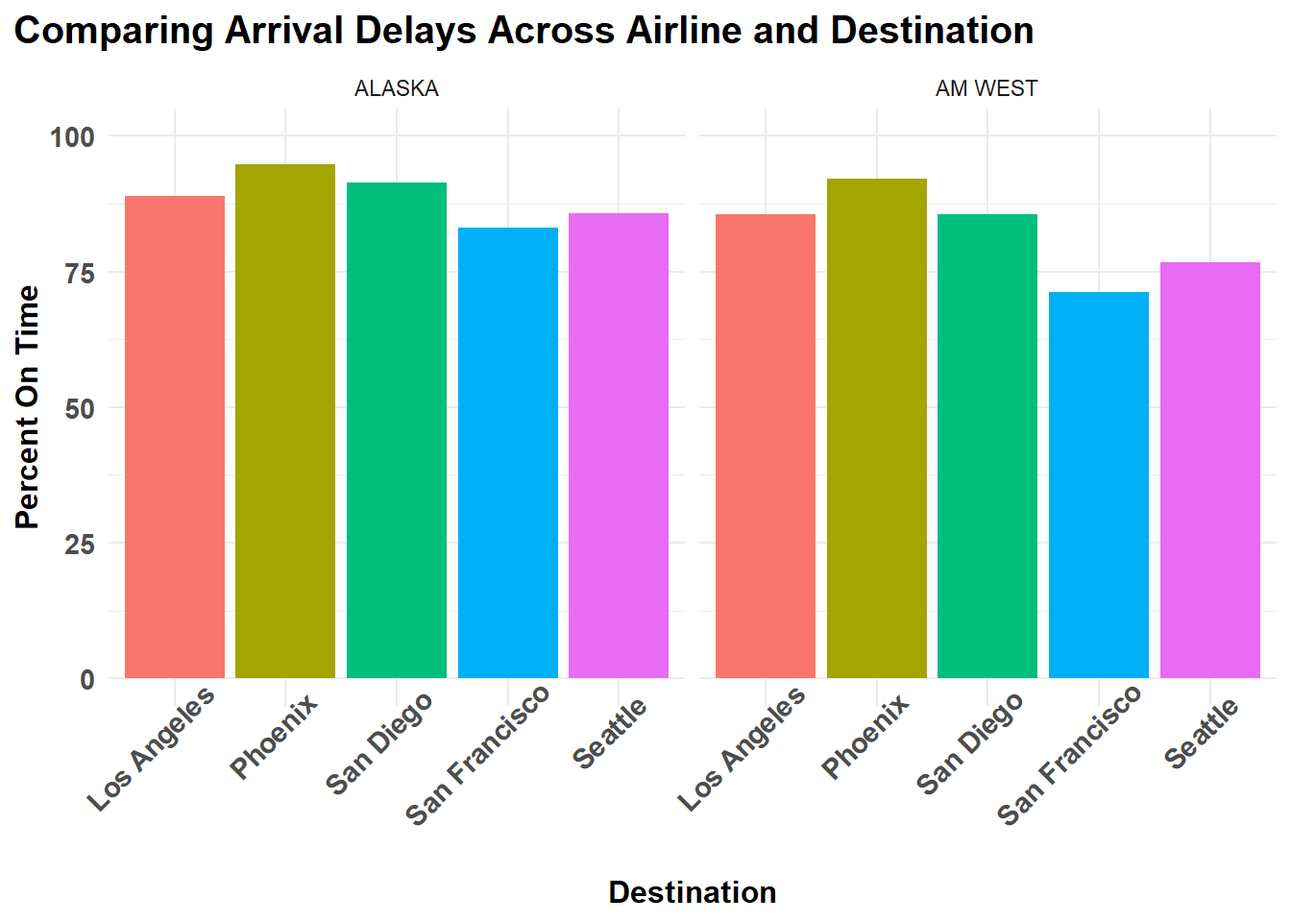
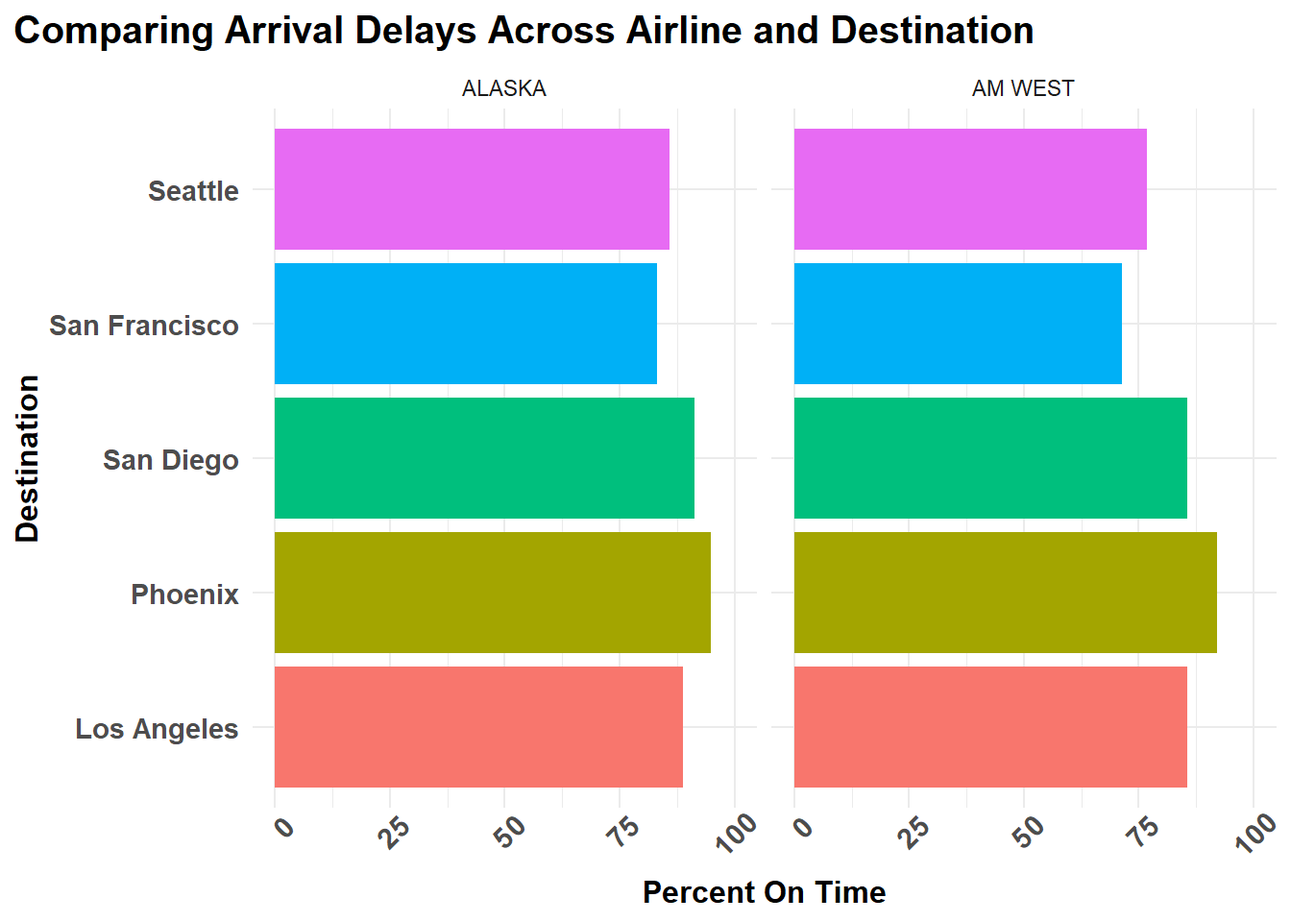
coord_flip()

diff --git a/Assignment5A-KCH-Codebase.html b/Assignment5A-KCH-Codebase.html
@@ -311,11 +311,10 @@ pre > code.sourceCode > span > a:first-child::before { text-decoration: underlin
 <div class="cell">
 <div class="code-copy-outer-scaffold"><div class="sourceCode cell-code" id="cb2"><pre class="sourceCode r code-with-copy"><code class="sourceCode r"><span id="cb2-1"><a href="#cb2-1" aria-hidden="true" tabindex="-1"></a>df_long <span class="ot">&lt;-</span> clean_data <span class="sc">|&gt;</span></span>
 <span id="cb2-2"><a href="#cb2-2" aria-hidden="true" tabindex="-1"></a>  <span class="fu">pivot_longer</span>(</span>
-<span id="cb2-3"><a href="#cb2-3" aria-hidden="true" tabindex="-1"></a>    <span class="at">cols =</span> <span class="fu">c</span>(<span class="dv">3</span>,<span class="dv">4</span>,<span class="dv">5</span>,<span class="dv">6</span>,<span class="dv">7</span>),</span>
+<span id="cb2-3"><a href="#cb2-3" aria-hidden="true" tabindex="-1"></a>    <span class="at">cols =</span> <span class="st">"Los Angeles"</span><span class="sc">:</span> <span class="st">"Seattle"</span>,</span>
 <span id="cb2-4"><a href="#cb2-4" aria-hidden="true" tabindex="-1"></a>    <span class="at">names_to =</span> <span class="st">"destination"</span>,</span>
 <span id="cb2-5"><a href="#cb2-5" aria-hidden="true" tabindex="-1"></a>    <span class="at">values_to =</span> <span class="st">"frequency"</span></span>
-<span id="cb2-6"><a href="#cb2-6" aria-hidden="true" tabindex="-1"></a>  )</span>
-<span id="cb2-7"><a href="#cb2-7" aria-hidden="true" tabindex="-1"></a><span class="co">#knitr::kable(df_long, caption = "Cleaned, Long Data Frame")</span></span></code></pre></div><button title="Copy to Clipboard" class="code-copy-button"><i class="bi"></i></button></div>
+<span id="cb2-6"><a href="#cb2-6" aria-hidden="true" tabindex="-1"></a>  )</span></code></pre></div><button title="Copy to Clipboard" class="code-copy-button"><i class="bi"></i></button></div>
 </div>
 </section>
 <section id="summarizing-data" class="level3">
@@ -325,52 +324,26 @@ pre > code.sourceCode > span > a:first-child::before { text-decoration: underlin
 <div class="code-copy-outer-scaffold"><div class="sourceCode cell-code" id="cb3"><pre class="sourceCode r code-with-copy"><code class="sourceCode r"><span id="cb3-1"><a href="#cb3-1" aria-hidden="true" tabindex="-1"></a>df_long <span class="ot">&lt;-</span> df_long <span class="sc">|&gt;</span></span>
 <span id="cb3-2"><a href="#cb3-2" aria-hidden="true" tabindex="-1"></a>  <span class="fu">arrange</span>(destination)</span>
 <span id="cb3-3"><a href="#cb3-3" aria-hidden="true" tabindex="-1"></a></span>
-<span id="cb3-4"><a href="#cb3-4" aria-hidden="true" tabindex="-1"></a>df_long</span></code></pre></div><button title="Copy to Clipboard" class="code-copy-button"><i class="bi"></i></button></div>
-<div class="cell-output cell-output-stdout">
-<pre><code># A tibble: 20 × 4
-   airline status  destination   frequency
-   &lt;chr&gt;   &lt;chr&gt;   &lt;chr&gt;             &lt;dbl&gt;
- 1 ALASKA  on time Los Angeles         497
- 2 ALASKA  delayed Los Angeles          62
- 3 AM WEST on time Los Angeles         694
- 4 AM WEST delayed Los Angeles         117
- 5 ALASKA  on time Phoenix             221
- 6 ALASKA  delayed Phoenix              12
- 7 AM WEST on time Phoenix            4840
- 8 AM WEST delayed Phoenix             415
- 9 ALASKA  on time San Diego           212
-10 ALASKA  delayed San Diego            20
-11 AM WEST on time San Diego           383
-12 AM WEST delayed San Diego            65
-13 ALASKA  on time San Francisco       503
-14 ALASKA  delayed San Francisco       102
-15 AM WEST on time San Francisco       320
-16 AM WEST delayed San Francisco       129
-17 ALASKA  on time Seattle            1841
-18 ALASKA  delayed Seattle             305
-19 AM WEST on time Seattle             201
-20 AM WEST delayed Seattle              61</code></pre>
-</div>
-<div class="code-copy-outer-scaffold"><div class="sourceCode cell-code" id="cb5"><pre class="sourceCode r code-with-copy"><code class="sourceCode r"><span id="cb5-1"><a href="#cb5-1" aria-hidden="true" tabindex="-1"></a>df_wide <span class="ot">&lt;-</span> df_long <span class="sc">|&gt;</span></span>
-<span id="cb5-2"><a href="#cb5-2" aria-hidden="true" tabindex="-1"></a>  <span class="fu">pivot_wider</span>(</span>
-<span id="cb5-3"><a href="#cb5-3" aria-hidden="true" tabindex="-1"></a>    <span class="at">names_from =</span> status,</span>
-<span id="cb5-4"><a href="#cb5-4" aria-hidden="true" tabindex="-1"></a>    <span class="at">values_from =</span> frequency</span>
-<span id="cb5-5"><a href="#cb5-5" aria-hidden="true" tabindex="-1"></a>  ) <span class="sc">|&gt;</span></span>
-<span id="cb5-6"><a href="#cb5-6" aria-hidden="true" tabindex="-1"></a>  janitor<span class="sc">::</span><span class="fu">clean_names</span>()</span>
-<span id="cb5-7"><a href="#cb5-7" aria-hidden="true" tabindex="-1"></a>  </span>
-<span id="cb5-8"><a href="#cb5-8" aria-hidden="true" tabindex="-1"></a>df_summary <span class="ot">&lt;-</span> df_wide <span class="sc">|&gt;</span></span>
-<span id="cb5-9"><a href="#cb5-9" aria-hidden="true" tabindex="-1"></a>  <span class="fu">mutate</span>(<span class="at">on_time_pct =</span> <span class="fu">round</span>(<span class="dv">100</span><span class="sc">*</span>on_time<span class="sc">/</span>(on_time<span class="sc">+</span>delayed),<span class="dv">1</span>)) <span class="sc">|&gt;</span></span>
-<span id="cb5-10"><a href="#cb5-10" aria-hidden="true" tabindex="-1"></a>  <span class="fu">select</span>(airline, destination, on_time_pct)</span>
-<span id="cb5-11"><a href="#cb5-11" aria-hidden="true" tabindex="-1"></a></span>
-<span id="cb5-12"><a href="#cb5-12" aria-hidden="true" tabindex="-1"></a>df_wider <span class="ot">&lt;-</span> df_summary <span class="sc">|&gt;</span></span>
-<span id="cb5-13"><a href="#cb5-13" aria-hidden="true" tabindex="-1"></a>  <span class="fu">pivot_wider</span>(<span class="at">names_from =</span> airline,</span>
-<span id="cb5-14"><a href="#cb5-14" aria-hidden="true" tabindex="-1"></a>              <span class="at">values_from =</span> on_time_pct</span>
-<span id="cb5-15"><a href="#cb5-15" aria-hidden="true" tabindex="-1"></a>  ) <span class="sc">|&gt;</span></span>
-<span id="cb5-16"><a href="#cb5-16" aria-hidden="true" tabindex="-1"></a>  janitor<span class="sc">::</span><span class="fu">clean_names</span>() <span class="sc">|&gt;</span></span>
-<span id="cb5-17"><a href="#cb5-17" aria-hidden="true" tabindex="-1"></a>  <span class="fu">arrange</span>(<span class="fu">desc</span>(alaska))</span>
-<span id="cb5-18"><a href="#cb5-18" aria-hidden="true" tabindex="-1"></a></span>
-<span id="cb5-19"><a href="#cb5-19" aria-hidden="true" tabindex="-1"></a></span>
-<span id="cb5-20"><a href="#cb5-20" aria-hidden="true" tabindex="-1"></a>knitr<span class="sc">::</span><span class="fu">kable</span>(df_wider, <span class="at">caption =</span> <span class="st">"Summary of Data"</span>)</span></code></pre></div><button title="Copy to Clipboard" class="code-copy-button"><i class="bi"></i></button></div>
+<span id="cb3-4"><a href="#cb3-4" aria-hidden="true" tabindex="-1"></a>df_wide <span class="ot">&lt;-</span> df_long <span class="sc">|&gt;</span></span>
+<span id="cb3-5"><a href="#cb3-5" aria-hidden="true" tabindex="-1"></a>  <span class="fu">pivot_wider</span>(</span>
+<span id="cb3-6"><a href="#cb3-6" aria-hidden="true" tabindex="-1"></a>    <span class="at">names_from =</span> status,</span>
+<span id="cb3-7"><a href="#cb3-7" aria-hidden="true" tabindex="-1"></a>    <span class="at">values_from =</span> frequency</span>
+<span id="cb3-8"><a href="#cb3-8" aria-hidden="true" tabindex="-1"></a>  ) <span class="sc">|&gt;</span></span>
+<span id="cb3-9"><a href="#cb3-9" aria-hidden="true" tabindex="-1"></a>  janitor<span class="sc">::</span><span class="fu">clean_names</span>()</span>
+<span id="cb3-10"><a href="#cb3-10" aria-hidden="true" tabindex="-1"></a>  </span>
+<span id="cb3-11"><a href="#cb3-11" aria-hidden="true" tabindex="-1"></a>df_summary <span class="ot">&lt;-</span> df_wide <span class="sc">|&gt;</span></span>
+<span id="cb3-12"><a href="#cb3-12" aria-hidden="true" tabindex="-1"></a>  <span class="fu">mutate</span>(<span class="at">on_time_pct =</span> <span class="fu">round</span>(<span class="dv">100</span><span class="sc">*</span>on_time<span class="sc">/</span>(on_time<span class="sc">+</span>delayed),<span class="dv">1</span>)) <span class="sc">|&gt;</span></span>
+<span id="cb3-13"><a href="#cb3-13" aria-hidden="true" tabindex="-1"></a>  <span class="fu">select</span>(airline, destination, on_time_pct)</span>
+<span id="cb3-14"><a href="#cb3-14" aria-hidden="true" tabindex="-1"></a></span>
+<span id="cb3-15"><a href="#cb3-15" aria-hidden="true" tabindex="-1"></a>df_wider <span class="ot">&lt;-</span> df_summary <span class="sc">|&gt;</span></span>
+<span id="cb3-16"><a href="#cb3-16" aria-hidden="true" tabindex="-1"></a>  <span class="fu">pivot_wider</span>(<span class="at">names_from =</span> airline,</span>
+<span id="cb3-17"><a href="#cb3-17" aria-hidden="true" tabindex="-1"></a>              <span class="at">values_from =</span> on_time_pct</span>
+<span id="cb3-18"><a href="#cb3-18" aria-hidden="true" tabindex="-1"></a>  ) <span class="sc">|&gt;</span></span>
+<span id="cb3-19"><a href="#cb3-19" aria-hidden="true" tabindex="-1"></a>  janitor<span class="sc">::</span><span class="fu">clean_names</span>() <span class="sc">|&gt;</span></span>
+<span id="cb3-20"><a href="#cb3-20" aria-hidden="true" tabindex="-1"></a>  <span class="fu">arrange</span>(<span class="fu">desc</span>(alaska))</span>
+<span id="cb3-21"><a href="#cb3-21" aria-hidden="true" tabindex="-1"></a></span>
+<span id="cb3-22"><a href="#cb3-22" aria-hidden="true" tabindex="-1"></a></span>
+<span id="cb3-23"><a href="#cb3-23" aria-hidden="true" tabindex="-1"></a>knitr<span class="sc">::</span><span class="fu">kable</span>(df_wider, <span class="at">caption =</span> <span class="st">"Summary of Data"</span>)</span></code></pre></div><button title="Copy to Clipboard" class="code-copy-button"><i class="bi"></i></button></div>
 <div class="cell-output-display">
 <table class="caption-top table table-sm table-striped small">
 <caption>Summary of Data</caption>
@@ -416,26 +389,27 @@ pre > code.sourceCode > span > a:first-child::before { text-decoration: underlin
 <section id="visualizing-data" class="level2">
 <h2 class="anchored" data-anchor-id="visualizing-data">Visualizing Data</h2>
 <div class="cell">
-<div class="code-copy-outer-scaffold"><div class="sourceCode cell-code" id="cb6"><pre class="sourceCode r code-with-copy"><code class="sourceCode r"><span id="cb6-1"><a href="#cb6-1" aria-hidden="true" tabindex="-1"></a>df_summary <span class="sc">|&gt;</span></span>
-<span id="cb6-2"><a href="#cb6-2" aria-hidden="true" tabindex="-1"></a>  <span class="fu">ggplot</span>(<span class="fu">aes</span>(<span class="at">x=</span>destination, <span class="at">y=</span>on_time_pct, <span class="at">fill=</span>destination)) <span class="sc">+</span></span>
-<span id="cb6-3"><a href="#cb6-3" aria-hidden="true" tabindex="-1"></a>  <span class="fu">facet_wrap</span>(<span class="sc">~</span>airline) <span class="sc">+</span></span>
-<span id="cb6-4"><a href="#cb6-4" aria-hidden="true" tabindex="-1"></a>  <span class="fu">geom_col</span>(<span class="at">show.legend =</span> <span class="cn">FALSE</span>) <span class="sc">+</span></span>
-<span id="cb6-5"><a href="#cb6-5" aria-hidden="true" tabindex="-1"></a>  <span class="fu">scale_y_continuous</span>(<span class="at">limits =</span> <span class="fu">c</span>(<span class="dv">0</span>,<span class="dv">100</span>)) <span class="sc">+</span></span>
-<span id="cb6-6"><a href="#cb6-6" aria-hidden="true" tabindex="-1"></a>  <span class="fu">labs</span>(<span class="at">title =</span> <span class="st">"Comparing Arrival Delays Across Airline and Destination"</span>,</span>
-<span id="cb6-7"><a href="#cb6-7" aria-hidden="true" tabindex="-1"></a>       <span class="at">x=</span><span class="st">"Destination"</span>,</span>
-<span id="cb6-8"><a href="#cb6-8" aria-hidden="true" tabindex="-1"></a>       <span class="at">y=</span><span class="st">"Percent On Time"</span>) <span class="sc">+</span></span>
-<span id="cb6-9"><a href="#cb6-9" aria-hidden="true" tabindex="-1"></a>  <span class="fu">theme_minimal</span>() <span class="sc">+</span></span>
-<span id="cb6-10"><a href="#cb6-10" aria-hidden="true" tabindex="-1"></a>  <span class="fu">theme</span>(</span>
-<span id="cb6-11"><a href="#cb6-11" aria-hidden="true" tabindex="-1"></a>    <span class="at">plot.title.position =</span> <span class="st">"plot"</span>,</span>
-<span id="cb6-12"><a href="#cb6-12" aria-hidden="true" tabindex="-1"></a>    <span class="at">plot.caption.position =</span> <span class="st">"plot"</span>,</span>
-<span id="cb6-13"><a href="#cb6-13" aria-hidden="true" tabindex="-1"></a>    <span class="at">plot.title =</span> <span class="fu">element_text</span>(<span class="at">size =</span> <span class="dv">15</span>, <span class="at">face =</span> <span class="st">"bold"</span>),</span>
-<span id="cb6-14"><a href="#cb6-14" aria-hidden="true" tabindex="-1"></a>    <span class="at">plot.subtitle =</span> <span class="fu">element_text</span>(<span class="at">size =</span> <span class="dv">13</span>, <span class="at">face =</span> <span class="st">"italic"</span>),</span>
-<span id="cb6-15"><a href="#cb6-15" aria-hidden="true" tabindex="-1"></a>    <span class="at">axis.text.y =</span> <span class="fu">element_text</span>(<span class="at">size =</span> <span class="dv">11</span>, <span class="at">face =</span> <span class="st">"bold"</span>),</span>
-<span id="cb6-16"><a href="#cb6-16" aria-hidden="true" tabindex="-1"></a>    <span class="at">axis.text.x =</span> <span class="fu">element_text</span>(<span class="at">size =</span> <span class="dv">11</span>, <span class="at">face =</span> <span class="st">"bold"</span>, <span class="at">angle =</span> <span class="dv">45</span>, <span class="at">hjust =</span> <span class="fl">0.8</span>, <span class="at">vjust =</span> <span class="fl">1.1</span>),</span>
-<span id="cb6-17"><a href="#cb6-17" aria-hidden="true" tabindex="-1"></a>    <span class="at">axis.title.y =</span> <span class="fu">element_text</span>(<span class="at">size =</span> <span class="dv">12</span>, <span class="at">face =</span> <span class="st">"bold"</span>),</span>
-<span id="cb6-18"><a href="#cb6-18" aria-hidden="true" tabindex="-1"></a>    <span class="at">axis.title.x =</span> <span class="fu">element_text</span>(<span class="at">size =</span> <span class="dv">12</span>, <span class="at">face =</span> <span class="st">"bold"</span>),</span>
-<span id="cb6-19"><a href="#cb6-19" aria-hidden="true" tabindex="-1"></a>  ) <span class="sc">+</span></span>
-<span id="cb6-20"><a href="#cb6-20" aria-hidden="true" tabindex="-1"></a>  <span class="fu">scale_fill_discrete</span>()</span></code></pre></div><button title="Copy to Clipboard" class="code-copy-button"><i class="bi"></i></button></div>
+<div class="code-copy-outer-scaffold"><div class="sourceCode cell-code" id="cb4"><pre class="sourceCode r code-with-copy"><code class="sourceCode r"><span id="cb4-1"><a href="#cb4-1" aria-hidden="true" tabindex="-1"></a>df_summary <span class="sc">|&gt;</span></span>
+<span id="cb4-2"><a href="#cb4-2" aria-hidden="true" tabindex="-1"></a>  <span class="fu">ggplot</span>(<span class="fu">aes</span>(<span class="at">x=</span>destination, <span class="at">y=</span>on_time_pct, <span class="at">fill=</span>destination)) <span class="sc">+</span></span>
+<span id="cb4-3"><a href="#cb4-3" aria-hidden="true" tabindex="-1"></a>  <span class="fu">facet_wrap</span>(<span class="sc">~</span>airline) <span class="sc">+</span></span>
+<span id="cb4-4"><a href="#cb4-4" aria-hidden="true" tabindex="-1"></a>  <span class="fu">geom_col</span>(<span class="at">show.legend =</span> <span class="cn">FALSE</span>) <span class="sc">+</span></span>
+<span id="cb4-5"><a href="#cb4-5" aria-hidden="true" tabindex="-1"></a>  <span class="fu">coord_flip</span>() <span class="sc">+</span></span>
+<span id="cb4-6"><a href="#cb4-6" aria-hidden="true" tabindex="-1"></a>  <span class="fu">scale_y_continuous</span>(<span class="at">limits =</span> <span class="fu">c</span>(<span class="dv">0</span>,<span class="dv">100</span>)) <span class="sc">+</span></span>
+<span id="cb4-7"><a href="#cb4-7" aria-hidden="true" tabindex="-1"></a>  <span class="fu">labs</span>(<span class="at">title =</span> <span class="st">"Comparing Arrival Delays Across Airline and Destination"</span>,</span>
+<span id="cb4-8"><a href="#cb4-8" aria-hidden="true" tabindex="-1"></a>       <span class="at">x=</span><span class="st">"Destination"</span>,</span>
+<span id="cb4-9"><a href="#cb4-9" aria-hidden="true" tabindex="-1"></a>       <span class="at">y=</span><span class="st">"Percent On Time"</span>) <span class="sc">+</span></span>
+<span id="cb4-10"><a href="#cb4-10" aria-hidden="true" tabindex="-1"></a>  <span class="fu">theme_minimal</span>() <span class="sc">+</span></span>
+<span id="cb4-11"><a href="#cb4-11" aria-hidden="true" tabindex="-1"></a>  <span class="fu">theme</span>(</span>
+<span id="cb4-12"><a href="#cb4-12" aria-hidden="true" tabindex="-1"></a>    <span class="at">plot.title.position =</span> <span class="st">"plot"</span>,</span>
+<span id="cb4-13"><a href="#cb4-13" aria-hidden="true" tabindex="-1"></a>    <span class="at">plot.caption.position =</span> <span class="st">"plot"</span>,</span>
+<span id="cb4-14"><a href="#cb4-14" aria-hidden="true" tabindex="-1"></a>    <span class="at">plot.title =</span> <span class="fu">element_text</span>(<span class="at">size =</span> <span class="dv">15</span>, <span class="at">face =</span> <span class="st">"bold"</span>),</span>
+<span id="cb4-15"><a href="#cb4-15" aria-hidden="true" tabindex="-1"></a>    <span class="at">plot.subtitle =</span> <span class="fu">element_text</span>(<span class="at">size =</span> <span class="dv">13</span>, <span class="at">face =</span> <span class="st">"italic"</span>),</span>
+<span id="cb4-16"><a href="#cb4-16" aria-hidden="true" tabindex="-1"></a>    <span class="at">axis.text.y =</span> <span class="fu">element_text</span>(<span class="at">size =</span> <span class="dv">11</span>, <span class="at">face =</span> <span class="st">"bold"</span>),</span>
+<span id="cb4-17"><a href="#cb4-17" aria-hidden="true" tabindex="-1"></a>    <span class="at">axis.text.x =</span> <span class="fu">element_text</span>(<span class="at">size =</span> <span class="dv">11</span>, <span class="at">face =</span> <span class="st">"bold"</span>, <span class="at">angle =</span> <span class="dv">45</span>, <span class="at">hjust =</span> <span class="fl">0.8</span>, <span class="at">vjust =</span> <span class="fl">1.1</span>),</span>
+<span id="cb4-18"><a href="#cb4-18" aria-hidden="true" tabindex="-1"></a>    <span class="at">axis.title.y =</span> <span class="fu">element_text</span>(<span class="at">size =</span> <span class="dv">12</span>, <span class="at">face =</span> <span class="st">"bold"</span>),</span>
+<span id="cb4-19"><a href="#cb4-19" aria-hidden="true" tabindex="-1"></a>    <span class="at">axis.title.x =</span> <span class="fu">element_text</span>(<span class="at">size =</span> <span class="dv">12</span>, <span class="at">face =</span> <span class="st">"bold"</span>),</span>
+<span id="cb4-20"><a href="#cb4-20" aria-hidden="true" tabindex="-1"></a>  ) <span class="sc">+</span></span>
+<span id="cb4-21"><a href="#cb4-21" aria-hidden="true" tabindex="-1"></a>  <span class="fu">scale_fill_discrete</span>()</span></code></pre></div><button title="Copy to Clipboard" class="code-copy-button"><i class="bi"></i></button></div>
 <div class="cell-output-display">
 <div id="fig-1" class="quarto-float quarto-figure quarto-figure-center anchored">
 <figure class="quarto-float quarto-float-fig figure">
@@ -450,30 +424,30 @@ Figure&nbsp;1: Comparing Arrival Delays Across Airline and Destination
 </div>
 </div>
 <div class="cell">
-<div class="code-copy-outer-scaffold"><div class="sourceCode cell-code" id="cb7"><pre class="sourceCode r code-with-copy"><code class="sourceCode r"><span id="cb7-1"><a href="#cb7-1" aria-hidden="true" tabindex="-1"></a>df_viz <span class="ot">&lt;-</span> df_wider <span class="sc">|&gt;</span></span>
-<span id="cb7-2"><a href="#cb7-2" aria-hidden="true" tabindex="-1"></a>  <span class="fu">mutate</span>(<span class="at">diff =</span> alaska <span class="sc">-</span> am_west) <span class="sc">|&gt;</span></span>
-<span id="cb7-3"><a href="#cb7-3" aria-hidden="true" tabindex="-1"></a>  <span class="fu">select</span>(destination, diff)</span>
-<span id="cb7-4"><a href="#cb7-4" aria-hidden="true" tabindex="-1"></a></span>
-<span id="cb7-5"><a href="#cb7-5" aria-hidden="true" tabindex="-1"></a>df_viz <span class="sc">|&gt;</span></span>
-<span id="cb7-6"><a href="#cb7-6" aria-hidden="true" tabindex="-1"></a>  <span class="fu">ggplot</span>(<span class="fu">aes</span>(<span class="at">x=</span>destination, <span class="at">y=</span>diff, <span class="at">fill=</span>destination)) <span class="sc">+</span></span>
-<span id="cb7-7"><a href="#cb7-7" aria-hidden="true" tabindex="-1"></a>  <span class="fu">geom_col</span>(<span class="at">show.legend =</span> <span class="cn">FALSE</span>) <span class="sc">+</span></span>
-<span id="cb7-8"><a href="#cb7-8" aria-hidden="true" tabindex="-1"></a>  <span class="fu">labs</span>(<span class="at">title =</span> <span class="st">"Alaska Airlines Displays a Higher On-Time Percentage than Am West"</span>,</span>
-<span id="cb7-9"><a href="#cb7-9" aria-hidden="true" tabindex="-1"></a>       <span class="at">subtitle =</span> <span class="st">""</span>,</span>
-<span id="cb7-10"><a href="#cb7-10" aria-hidden="true" tabindex="-1"></a>       <span class="at">x =</span> <span class="st">"Destination"</span>,</span>
-<span id="cb7-11"><a href="#cb7-11" aria-hidden="true" tabindex="-1"></a>       <span class="at">y =</span> <span class="st">"Differential in Percent On-Time</span><span class="sc">\n</span><span class="st"> (Alaska minus Am West)"</span></span>
-<span id="cb7-12"><a href="#cb7-12" aria-hidden="true" tabindex="-1"></a>       ) <span class="sc">+</span></span>
-<span id="cb7-13"><a href="#cb7-13" aria-hidden="true" tabindex="-1"></a>  <span class="fu">theme_minimal</span>() <span class="sc">+</span></span>
-<span id="cb7-14"><a href="#cb7-14" aria-hidden="true" tabindex="-1"></a>  <span class="fu">theme</span>(</span>
-<span id="cb7-15"><a href="#cb7-15" aria-hidden="true" tabindex="-1"></a>    <span class="at">plot.title.position =</span> <span class="st">"plot"</span>,</span>
-<span id="cb7-16"><a href="#cb7-16" aria-hidden="true" tabindex="-1"></a>    <span class="at">plot.caption.position =</span> <span class="st">"plot"</span>,</span>
-<span id="cb7-17"><a href="#cb7-17" aria-hidden="true" tabindex="-1"></a>    <span class="at">plot.title =</span> <span class="fu">element_text</span>(<span class="at">size =</span> <span class="dv">15</span>, <span class="at">face =</span> <span class="st">"bold"</span>),</span>
-<span id="cb7-18"><a href="#cb7-18" aria-hidden="true" tabindex="-1"></a>    <span class="at">plot.subtitle =</span> <span class="fu">element_text</span>(<span class="at">size =</span> <span class="dv">13</span>, <span class="at">face =</span> <span class="st">"italic"</span>),</span>
-<span id="cb7-19"><a href="#cb7-19" aria-hidden="true" tabindex="-1"></a>    <span class="at">axis.text.y =</span> <span class="fu">element_text</span>(<span class="at">size =</span> <span class="dv">11</span>, <span class="at">face =</span> <span class="st">"bold"</span>),</span>
-<span id="cb7-20"><a href="#cb7-20" aria-hidden="true" tabindex="-1"></a>    <span class="at">axis.text.x =</span> <span class="fu">element_text</span>(<span class="at">size =</span> <span class="dv">11</span>, <span class="at">face =</span> <span class="st">"bold"</span>),</span>
-<span id="cb7-21"><a href="#cb7-21" aria-hidden="true" tabindex="-1"></a>    <span class="at">axis.title.y =</span> <span class="fu">element_text</span>(<span class="at">size =</span> <span class="dv">12</span>, <span class="at">face =</span> <span class="st">"bold"</span>),</span>
-<span id="cb7-22"><a href="#cb7-22" aria-hidden="true" tabindex="-1"></a>    <span class="at">axis.title.x =</span> <span class="fu">element_text</span>(<span class="at">size =</span> <span class="dv">12</span>, <span class="at">face =</span> <span class="st">"bold"</span>),</span>
-<span id="cb7-23"><a href="#cb7-23" aria-hidden="true" tabindex="-1"></a>  ) <span class="sc">+</span></span>
-<span id="cb7-24"><a href="#cb7-24" aria-hidden="true" tabindex="-1"></a>  <span class="fu">scale_fill_discrete</span>()</span></code></pre></div><button title="Copy to Clipboard" class="code-copy-button"><i class="bi"></i></button></div>
+<div class="code-copy-outer-scaffold"><div class="sourceCode cell-code" id="cb5"><pre class="sourceCode r code-with-copy"><code class="sourceCode r"><span id="cb5-1"><a href="#cb5-1" aria-hidden="true" tabindex="-1"></a>df_viz <span class="ot">&lt;-</span> df_wider <span class="sc">|&gt;</span></span>
+<span id="cb5-2"><a href="#cb5-2" aria-hidden="true" tabindex="-1"></a>  <span class="fu">mutate</span>(<span class="at">diff =</span> alaska <span class="sc">-</span> am_west) <span class="sc">|&gt;</span></span>
+<span id="cb5-3"><a href="#cb5-3" aria-hidden="true" tabindex="-1"></a>  <span class="fu">select</span>(destination, diff)</span>
+<span id="cb5-4"><a href="#cb5-4" aria-hidden="true" tabindex="-1"></a></span>
+<span id="cb5-5"><a href="#cb5-5" aria-hidden="true" tabindex="-1"></a>df_viz <span class="sc">|&gt;</span></span>
+<span id="cb5-6"><a href="#cb5-6" aria-hidden="true" tabindex="-1"></a>  <span class="fu">ggplot</span>(<span class="fu">aes</span>(<span class="at">x=</span>destination, <span class="at">y=</span>diff, <span class="at">fill=</span>destination)) <span class="sc">+</span></span>
+<span id="cb5-7"><a href="#cb5-7" aria-hidden="true" tabindex="-1"></a>  <span class="fu">geom_col</span>(<span class="at">show.legend =</span> <span class="cn">FALSE</span>) <span class="sc">+</span></span>
+<span id="cb5-8"><a href="#cb5-8" aria-hidden="true" tabindex="-1"></a>  <span class="fu">labs</span>(<span class="at">title =</span> <span class="st">"Alaska Airlines Displays a Higher On-Time Percentage than Am West"</span>,</span>
+<span id="cb5-9"><a href="#cb5-9" aria-hidden="true" tabindex="-1"></a>       <span class="at">subtitle =</span> <span class="st">""</span>,</span>
+<span id="cb5-10"><a href="#cb5-10" aria-hidden="true" tabindex="-1"></a>       <span class="at">x =</span> <span class="st">"Destination"</span>,</span>
+<span id="cb5-11"><a href="#cb5-11" aria-hidden="true" tabindex="-1"></a>       <span class="at">y =</span> <span class="st">"Differential in Percent On-Time</span><span class="sc">\n</span><span class="st"> (Alaska minus Am West)"</span></span>
+<span id="cb5-12"><a href="#cb5-12" aria-hidden="true" tabindex="-1"></a>       ) <span class="sc">+</span></span>
+<span id="cb5-13"><a href="#cb5-13" aria-hidden="true" tabindex="-1"></a>  <span class="fu">theme_minimal</span>() <span class="sc">+</span></span>
+<span id="cb5-14"><a href="#cb5-14" aria-hidden="true" tabindex="-1"></a>  <span class="fu">theme</span>(</span>
+<span id="cb5-15"><a href="#cb5-15" aria-hidden="true" tabindex="-1"></a>    <span class="at">plot.title.position =</span> <span class="st">"plot"</span>,</span>
+<span id="cb5-16"><a href="#cb5-16" aria-hidden="true" tabindex="-1"></a>    <span class="at">plot.caption.position =</span> <span class="st">"plot"</span>,</span>
+<span id="cb5-17"><a href="#cb5-17" aria-hidden="true" tabindex="-1"></a>    <span class="at">plot.title =</span> <span class="fu">element_text</span>(<span class="at">size =</span> <span class="dv">15</span>, <span class="at">face =</span> <span class="st">"bold"</span>),</span>
+<span id="cb5-18"><a href="#cb5-18" aria-hidden="true" tabindex="-1"></a>    <span class="at">plot.subtitle =</span> <span class="fu">element_text</span>(<span class="at">size =</span> <span class="dv">13</span>, <span class="at">face =</span> <span class="st">"italic"</span>),</span>
+<span id="cb5-19"><a href="#cb5-19" aria-hidden="true" tabindex="-1"></a>    <span class="at">axis.text.y =</span> <span class="fu">element_text</span>(<span class="at">size =</span> <span class="dv">11</span>, <span class="at">face =</span> <span class="st">"bold"</span>),</span>
+<span id="cb5-20"><a href="#cb5-20" aria-hidden="true" tabindex="-1"></a>    <span class="at">axis.text.x =</span> <span class="fu">element_text</span>(<span class="at">size =</span> <span class="dv">11</span>, <span class="at">face =</span> <span class="st">"bold"</span>),</span>
+<span id="cb5-21"><a href="#cb5-21" aria-hidden="true" tabindex="-1"></a>    <span class="at">axis.title.y =</span> <span class="fu">element_text</span>(<span class="at">size =</span> <span class="dv">12</span>, <span class="at">face =</span> <span class="st">"bold"</span>),</span>
+<span id="cb5-22"><a href="#cb5-22" aria-hidden="true" tabindex="-1"></a>    <span class="at">axis.title.x =</span> <span class="fu">element_text</span>(<span class="at">size =</span> <span class="dv">12</span>, <span class="at">face =</span> <span class="st">"bold"</span>),</span>
+<span id="cb5-23"><a href="#cb5-23" aria-hidden="true" tabindex="-1"></a>  ) <span class="sc">+</span></span>
+<span id="cb5-24"><a href="#cb5-24" aria-hidden="true" tabindex="-1"></a>  <span class="fu">scale_fill_discrete</span>()</span></code></pre></div><button title="Copy to Clipboard" class="code-copy-button"><i class="bi"></i></button></div>
 <div class="cell-output-display">
 <div id="fig-2" class="quarto-float quarto-figure quarto-figure-center anchored">
 <figure class="quarto-float quarto-float-fig figure">
@@ -489,16 +463,16 @@ Figure&nbsp;2: Alaska Airlines Displays a Higher On-Time Percentage than Am West
 </div>
 <p>To view the aggregate level summaries, the <code>df_wide</code> data frame is reused and summary statistics are summarized into the new frame, <code>df_sum</code>. From there, the percent of on time flights for each airline, aggregated across destinations, is computed.</p>
 <div class="cell">
-<div class="code-copy-outer-scaffold"><div class="sourceCode cell-code" id="cb8"><pre class="sourceCode r code-with-copy"><code class="sourceCode r"><span id="cb8-1"><a href="#cb8-1" aria-hidden="true" tabindex="-1"></a>df_sum <span class="ot">&lt;-</span> df_wide <span class="sc">|&gt;</span></span>
-<span id="cb8-2"><a href="#cb8-2" aria-hidden="true" tabindex="-1"></a>  <span class="fu">group_by</span>(airline) <span class="sc">|&gt;</span></span>
-<span id="cb8-3"><a href="#cb8-3" aria-hidden="true" tabindex="-1"></a>  <span class="fu">summarize</span>(</span>
-<span id="cb8-4"><a href="#cb8-4" aria-hidden="true" tabindex="-1"></a>    <span class="at">tot_on_time =</span> <span class="fu">sum</span>(on_time),</span>
-<span id="cb8-5"><a href="#cb8-5" aria-hidden="true" tabindex="-1"></a>    <span class="at">tot_delayed =</span> <span class="fu">sum</span>(delayed),</span>
-<span id="cb8-6"><a href="#cb8-6" aria-hidden="true" tabindex="-1"></a>    <span class="at">pct_on_time =</span> <span class="fu">round</span>(<span class="dv">100</span><span class="sc">*</span>tot_on_time <span class="sc">/</span> (tot_on_time<span class="sc">+</span>tot_delayed),<span class="dv">1</span>)</span>
-<span id="cb8-7"><a href="#cb8-7" aria-hidden="true" tabindex="-1"></a>  ) <span class="sc">|&gt;</span></span>
-<span id="cb8-8"><a href="#cb8-8" aria-hidden="true" tabindex="-1"></a>  <span class="fu">select</span>(airline, pct_on_time)</span>
-<span id="cb8-9"><a href="#cb8-9" aria-hidden="true" tabindex="-1"></a></span>
-<span id="cb8-10"><a href="#cb8-10" aria-hidden="true" tabindex="-1"></a>knitr<span class="sc">::</span><span class="fu">kable</span>(df_sum)</span></code></pre></div><button title="Copy to Clipboard" class="code-copy-button"><i class="bi"></i></button></div>
+<div class="code-copy-outer-scaffold"><div class="sourceCode cell-code" id="cb6"><pre class="sourceCode r code-with-copy"><code class="sourceCode r"><span id="cb6-1"><a href="#cb6-1" aria-hidden="true" tabindex="-1"></a>df_sum <span class="ot">&lt;-</span> df_wide <span class="sc">|&gt;</span></span>
+<span id="cb6-2"><a href="#cb6-2" aria-hidden="true" tabindex="-1"></a>  <span class="fu">group_by</span>(airline) <span class="sc">|&gt;</span></span>
+<span id="cb6-3"><a href="#cb6-3" aria-hidden="true" tabindex="-1"></a>  <span class="fu">summarize</span>(</span>
+<span id="cb6-4"><a href="#cb6-4" aria-hidden="true" tabindex="-1"></a>    <span class="at">tot_on_time =</span> <span class="fu">sum</span>(on_time),</span>
+<span id="cb6-5"><a href="#cb6-5" aria-hidden="true" tabindex="-1"></a>    <span class="at">tot_delayed =</span> <span class="fu">sum</span>(delayed),</span>
+<span id="cb6-6"><a href="#cb6-6" aria-hidden="true" tabindex="-1"></a>    <span class="at">pct_on_time =</span> <span class="fu">round</span>(<span class="dv">100</span><span class="sc">*</span>tot_on_time <span class="sc">/</span> (tot_on_time<span class="sc">+</span>tot_delayed),<span class="dv">1</span>)</span>
+<span id="cb6-7"><a href="#cb6-7" aria-hidden="true" tabindex="-1"></a>  ) <span class="sc">|&gt;</span></span>
+<span id="cb6-8"><a href="#cb6-8" aria-hidden="true" tabindex="-1"></a>  <span class="fu">select</span>(airline, pct_on_time)</span>
+<span id="cb6-9"><a href="#cb6-9" aria-hidden="true" tabindex="-1"></a></span>
+<span id="cb6-10"><a href="#cb6-10" aria-hidden="true" tabindex="-1"></a>knitr<span class="sc">::</span><span class="fu">kable</span>(df_sum)</span></code></pre></div><button title="Copy to Clipboard" class="code-copy-button"><i class="bi"></i></button></div>
 <div id="tbl-3" class="cell quarto-float quarto-figure quarto-figure-center anchored">
 <figure class="quarto-float quarto-float-tbl figure">
 <figcaption class="quarto-float-caption-top quarto-float-caption quarto-float-tbl" id="tbl-3-caption-0ceaefa1-69ba-4598-a22c-09a6ac19f8ca">
@@ -536,7 +510,7 @@ Table&nbsp;1: Aggregate Summary
 <p>In this assignment a .CSV file was loaded into a data frame using <code>read_csv()</code> and the data frame was tidied and reorganized in several iterations. The frame was transformed wider and longer from its initial shape. In the end, the data is described in two visualizations comparing on-time rates (percentage) for five destinations across two airlines and the difference in on-time rates for the two airlines.</p>
 <p>According to <a href="#fig-1" class="quarto-xref">Figure&nbsp;1</a>, each airline shows on-time rates exceeding 70%, with all of the Alaska airline data exceeding 80%. Flights to Phoenix represented the highest on-time rates for both airlines, while San Francisco represented the destination with the lowest on-time rates.</p>
 <p>In <a href="#fig-2" class="quarto-xref">Figure&nbsp;2</a>, it is clear that Alaska airline has higher on-time percent rates than Am West airline. Here, the differential for each destination (calculated as Alaska on-time rate minus Am West on-time rate) is shown, which compares the on-time rates for the airlines across all five destinations. This chart makes apparent that the largest differential in on-time rates occurs when San Francisco is the destination.</p>
-<p>Finally, a comparison of the two airlines on aggregate statistics is presented in <a href="#tbl-3" class="quarto-xref">Table&nbsp;1</a>. This diagram exposes a discrepancy in the data: in <a href="#fig-1" class="quarto-xref">Figure&nbsp;1</a> and <a href="#fig-2" class="quarto-xref">Figure&nbsp;2</a> it was clear that Alaska airline outperformed Am West airline when results were dis-aggregated by destination; however, in <a href="#tbl-3" class="quarto-xref">Table&nbsp;1</a>, it is shown that Am West outperforms Alaska airline in on-time rates in aggregate. This situation is an example of Simpson’s paradox: the trend observed in the stratified data is no longer apparent in the aggregated data. This is likely due to the extreme number of on-time Am West flights to Phoenix: 4840. This likely skewed the aggregate data to show a high percentage of on-time flights for Am West.</p>
+<p>Finally, a comparison of the two airlines on aggregate statistics is presented in <a href="#tbl-3" class="quarto-xref">Table&nbsp;1</a>. This table exposes a discrepancy in the data: in <a href="#fig-1" class="quarto-xref">Figure&nbsp;1</a> and <a href="#fig-2" class="quarto-xref">Figure&nbsp;2</a> it was clear that Alaska airline outperformed Am West airline when results were dis-aggregated by destination; however, in <a href="#tbl-3" class="quarto-xref">Table&nbsp;1</a>, it is shown that Am West outperforms Alaska airline in on-time rates in aggregate. This situation is an example of Simpson’s paradox: the trend observed in the stratified data is no longer apparent in the aggregated data. This is likely due to the extreme number of on-time Am West flights to Phoenix: 4840. This likely skewed the aggregate data to show a high percentage of on-time flights for Am West.</p>
 <p>Overall, this assignment could be extended by incorporating more data into the analysis (more airlines, more destinations, average delay times, etc.). Additionally, if historical data were available, the on-time rates for each airline could be calculated for each year or month of operation. Lastly, this assignment could be completed using a mySQL database for storage and then SQL manipulations could be practiced.</p>
 </section>
 
